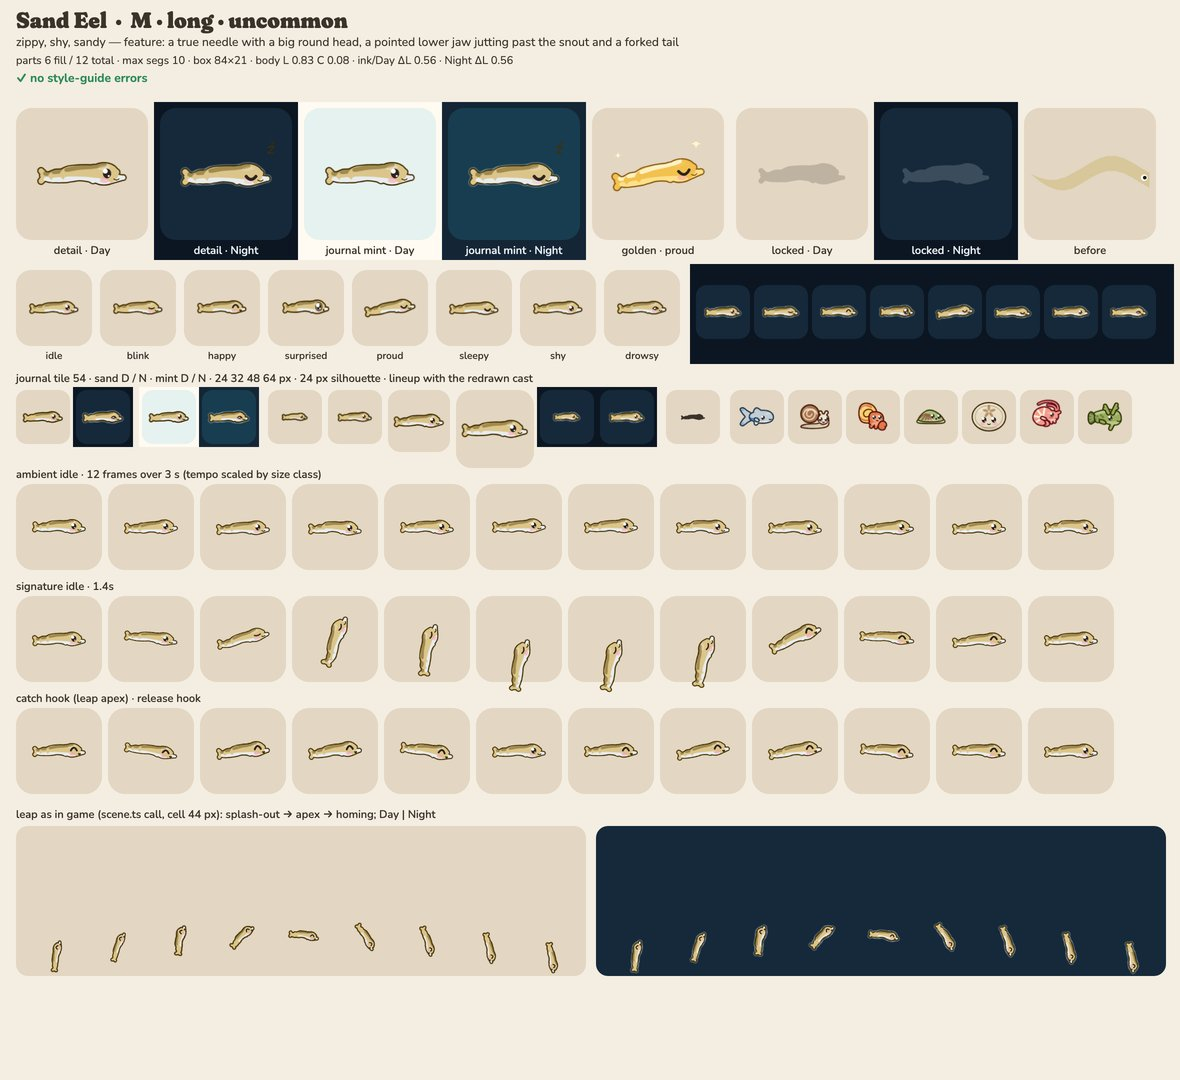
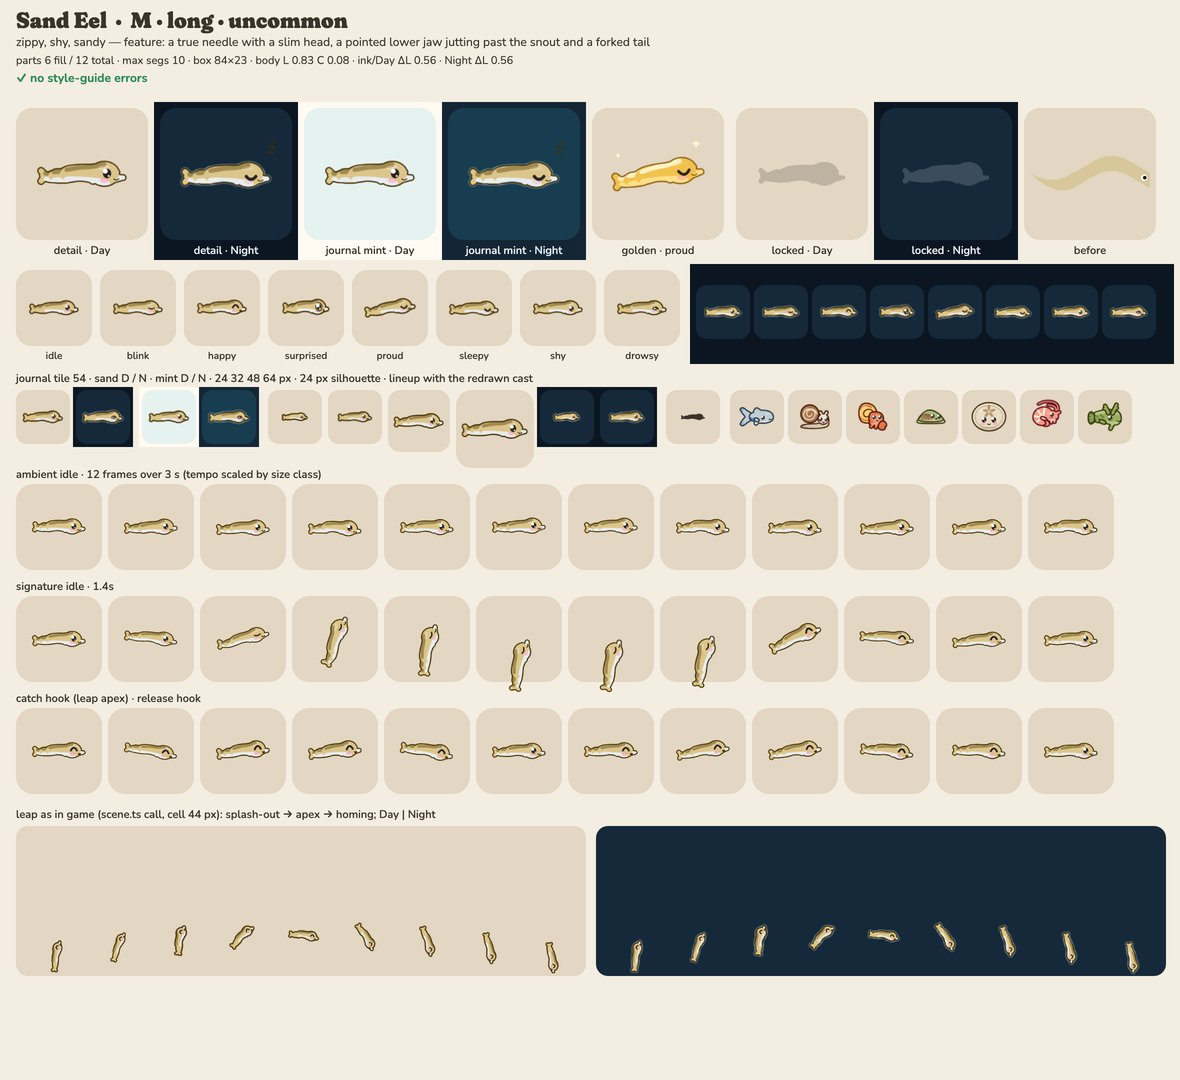
render: sandeel art round 3 — body +0.4 u so the drawn tile clears the 20 % coverage floor (ADR 0011)
tests/e2e/art.spec.ts 'every species draws' needs > 1280 px at size 80; the slimmer head left
1269/1278. Still a needle; closest wrasse 0.683 (cross-class).

diff --git a/src/render/art/species/sandeel.ts b/src/render/art/species/sandeel.ts
@@ -18,17 +18,17 @@ const tailTip = join(
   capsule(-34, 1.5, 3, -38.5, 6.5, 2.6),
 );
 const tailMid = tube([
-  [-12, 0, 6.8],
-  [-19, 1.5, 6.2],
-  [-26, 1.5, 5.6],
+  [-12, 0, 7.1],
+  [-19, 1.5, 6.5],
+  [-26, 1.5, 5.8],
 ]);
 const body = tube([
-  [-14, 0, 6.8],
-  [-2, -1.5, 7.2],
-  [8, -1, 7.8],
-  [14, 0, 8.6],
+  [-14, 0, 7.1],
+  [-2, -1.5, 7.6],
+  [8, -1, 8.2],
+  [14, 0, 9],
 ]);
-const head = ellipse(22, -0.5, 14, 10.4);
+const head = ellipse(22.5, -0.5, 14, 11.6);
 const snout = capsule(29, -3.5, 6, 33.6, -2, 3.2);
 // the lower jaw juts a full 6 u past the snout (R10: the sand eel's pointed underbite)
 const jaw = capsule(29, 4, 5, 40.6, 3.2, 2.2);
